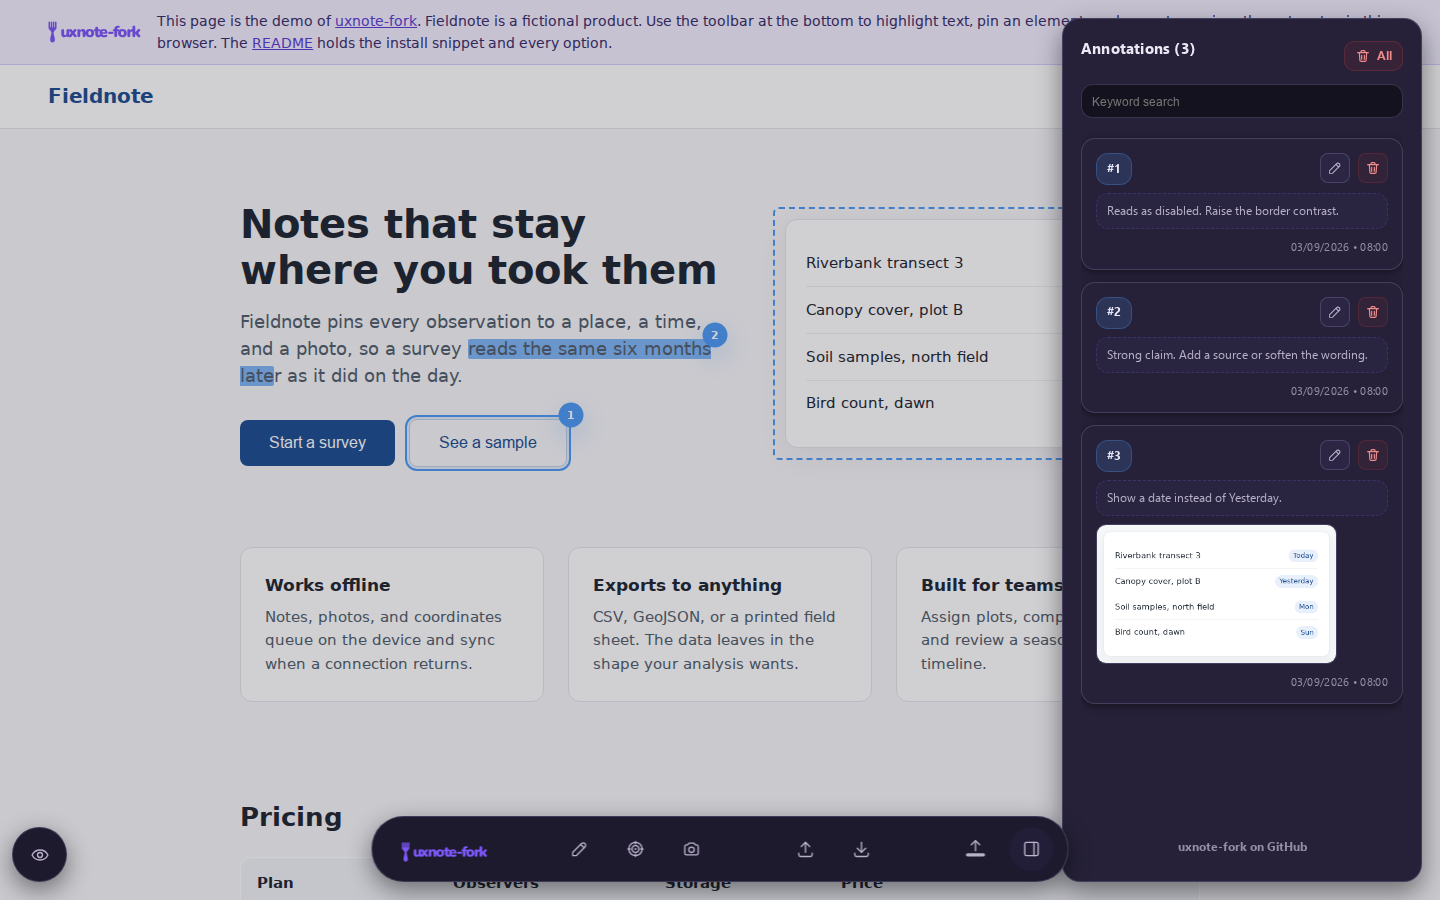
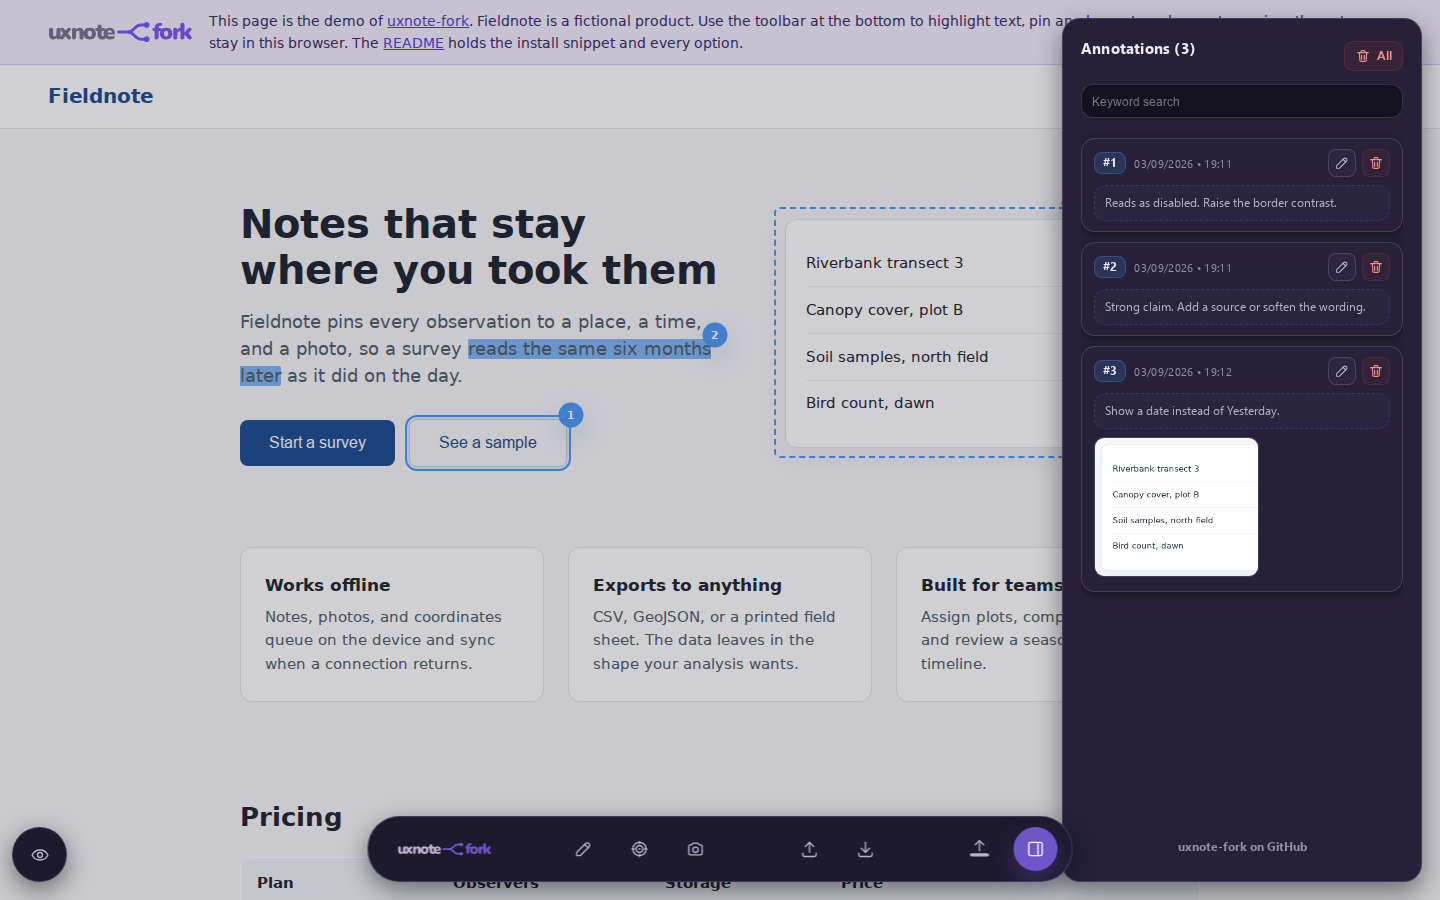
Adopt the Branchpoint mark and cut 2.1.0 (#10)
* feat(brand): draw the hyphen of the wordmark as a branch
* chore(release): cut 2.1.0

diff --git a/uxnote-tool/uxnote.js b/uxnote-tool/uxnote.js
@@ -3,7 +3,7 @@
  * Author: ninefortyonestudio (https://github.com/ninefortyonestudio)
  * Fork: https://github.com/Qu4tro/uxnote-fork
  * Upstream: https://github.com/ninefortyonestudio/uxnote
- * Version: v2.0.0
+ * Version: v2.1.0
  * License: MIT (see LICENSE)
  *
  * This fork stores the annotations on the server named by data-server-url,
@@ -378,8 +378,8 @@
         padding-right: 0px;
       }
       .wn-annot-logo svg {
-        width: 86px;
-        height: 24px;
+        width: 94px;
+        height: auto;
         fill: currentColor;
       }
       @media (max-width: 640px) {
@@ -482,7 +482,7 @@
         display: block;
       }
       .wn-annot-logo-img {
-        width: 86px;
+        width: 94px;
         height: auto;
         object-fit: contain;
         display: block;
@@ -3931,11 +3931,15 @@
   `;
   function iconWordmark() {
     return `
-      <svg class="wn-annot-logo-img" viewBox="0 0 1512 357" role="img" aria-label="uxnote-fork logo">
-        <g fill="#7d58fa">
-          <path d="M8.5 20.125A12.125 12.125 0 0 1 32.75 20.125V96A5.5 5.5 0 0 0 43.75 96V20.125A12.125 12.125 0 0 1 68 20.125V96A5.5 5.5 0 0 0 79 96V20.125A12.125 12.125 0 0 1 103.25 20.125V96A5.5 5.5 0 0 0 114.25 96V20.125A12.125 12.125 0 0 1 138.5 20.125V110C138.5 125 133 132 126 138L107 157C98 166 91 178 91 192C91 222 112 262 112 306C112 334 94 349 73.5 349C53 349 35 334 35 306C35 262 56 222 56 192C56 178 49 166 40 157L21 138C14 132 8.5 125 8.5 110Z"/>
-          <path d="M264.64 263.94Q248.05 263.94 237.28 257.82Q226.51 251.7 221.26 239.37Q216 227.05 216 208.4V153.58Q216 142.06 222.01 136.1Q228.02 130.14 239.18 130.14Q250.34 130.14 256.39 136.1Q262.45 142.06 262.45 153.58V209.59Q262.45 218.99 266.35 223.68Q270.24 228.37 278.58 228.37Q287.96 228.37 293.98 221.53Q300 214.7 300 203.66V153.58Q300 142.06 306.01 136.1Q312.02 130.14 323.18 130.14Q334.34 130.14 340.39 136.1Q346.45 142.06 346.45 153.58V239.89Q346.45 263.42 323.87 263.42Q312.97 263.42 307.04 257.37Q301.12 251.31 301.12 239.89V224.72L305.27 237.55Q299.46 250.31 289.2 257.12Q278.94 263.94 264.64 263.94ZM360.11 263.14Q351.53 263.14 346.33 258.38Q341.13 253.61 341 246.31Q340.87 239.01 346.97 231.44L385.58 184.58V205.14L350.08 161.84Q343.89 154.1 344.07 146.88Q344.24 139.66 349.44 134.9Q354.64 130.14 363.22 130.14Q371.72 130.14 377.1 132.89Q382.47 135.65 387.2 141.92L411.52 173.44H395.37L419.78 141.92Q424.6 135.65 430.1 132.89Q435.59 130.14 443.67 130.14Q452.5 130.14 457.57 134.95Q462.64 139.76 462.86 146.97Q463.07 154.19 456.71 161.93L421.13 205.21V184.43L460.08 231.44Q466.44 238.92 466.18 246.22Q465.92 253.52 460.63 258.33Q455.35 263.14 446.52 263.14Q438.44 263.14 433.03 260.38Q427.61 257.63 422.63 251.36L395.37 216.73H411.33L384 251.36Q379.1 257.37 373.86 260.25Q368.61 263.14 360.11 263.14ZM501.18 263.42Q490.02 263.42 484.01 257.37Q478 251.31 478 239.89V153.58Q478 142.15 483.92 136.15Q489.85 130.14 500.75 130.14Q511.65 130.14 517.49 136.15Q523.33 142.15 523.33 153.58V165.66L520.46 154.97Q526.7 142.8 538.34 136.21Q549.97 129.62 564.7 129.62Q580.1 129.62 590.02 135.61Q599.93 141.6 604.89 153.88Q609.85 166.16 609.85 185.07V239.89Q609.85 251.31 603.84 257.37Q597.83 263.42 586.67 263.42Q575.51 263.42 569.45 257.37Q563.4 251.31 563.4 239.89V186.97Q563.4 175.26 559.37 170.22Q555.34 165.19 547.43 165.19Q537.08 165.19 530.77 171.86Q524.45 178.53 524.45 189.74V239.89Q524.45 263.42 501.18 263.42ZM679.9 263.94Q658.57 263.94 642.63 255.85Q626.68 247.76 617.84 232.59Q609 217.42 609 196.73Q609 181.17 613.98 168.78Q618.97 156.4 628.33 147.57Q637.69 138.75 650.78 134.18Q663.86 129.62 679.9 129.62Q701.4 129.62 717.27 137.71Q733.13 145.8 741.97 160.84Q750.81 175.88 750.81 196.73Q750.81 212.3 745.83 224.73Q740.84 237.16 731.48 245.98Q722.12 254.81 709.03 259.38Q695.95 263.94 679.9 263.94ZM679.9 229.65Q687.06 229.65 692.45 226.21Q697.84 222.76 700.97 215.49Q704.1 208.23 704.1 196.73Q704.1 179.36 697.31 171.63Q690.52 163.91 679.9 163.91Q672.92 163.91 667.44 167.31Q661.97 170.71 658.84 177.89Q655.71 185.07 655.71 196.73Q655.71 214.02 662.5 221.83Q669.29 229.65 679.9 229.65ZM825.91 263.94Q806.45 263.94 793.68 257.87Q780.91 251.79 774.68 239.7Q768.45 227.61 768.45 209.34V166.75H759.71Q751.28 166.75 746.64 162.33Q742 157.9 742 149.66Q742 141.32 746.64 136.94Q751.28 132.56 759.71 132.56H768.45V116.31Q768.45 104.89 774.51 98.88Q780.56 92.87 791.72 92.87Q802.88 92.87 808.89 98.88Q814.9 104.89 814.9 116.31V132.56H836.23Q844.83 132.56 849.39 136.94Q853.94 141.32 853.94 149.66Q853.94 157.9 849.39 162.33Q844.83 166.75 836.23 166.75H814.9V207.85Q814.9 217.37 819.46 221.97Q824.03 226.57 833.96 226.57Q837.56 226.57 840.96 225.78Q844.35 225 847.29 224.91Q851.42 224.65 854.09 227.45Q856.76 230.25 856.76 239.87Q856.76 247.58 854.4 252.96Q852.04 258.34 845.94 260.74Q842.21 262.12 835.98 263.03Q829.75 263.94 825.91 263.94ZM912.94 263.94Q889.44 263.94 872.37 255.69Q855.3 247.43 846.15 232.31Q837 217.18 837 196.66Q837 176.83 845.72 161.79Q854.44 146.74 869.76 138.18Q885.07 129.62 904.6 129.62Q919 129.62 930.67 134.3Q942.33 138.99 950.69 147.67Q959.06 156.36 963.44 168.65Q967.81 180.94 967.81 196.14Q967.81 201.34 964.89 203.82Q961.96 206.3 955.79 206.3H875.85V184.34H933.69L929.68 187.59Q929.68 178.09 926.99 172Q924.3 165.91 919.23 162.85Q914.16 159.8 906.74 159.8Q898.61 159.8 892.66 163.55Q886.71 167.31 883.59 174.65Q880.46 182 880.46 192.96V195.12Q880.46 213.68 888.67 221.67Q896.88 229.65 914.12 229.65Q919.91 229.65 927.39 228.29Q934.87 226.93 941.61 224.25Q948.42 221.62 953.43 223.26Q958.44 224.9 961.17 228.93Q963.89 232.95 964.17 238.16Q964.44 243.36 961.73 248.1Q959.02 252.85 952.99 255.55Q944.03 259.8 933.74 261.87Q923.45 263.94 912.94 263.94ZM996.31 208.94Q988.57 208.94 983.28 203.74Q978 198.54 978 190.9Q978 182.99 983.28 177.92Q988.57 172.85 996.31 172.85H1048.06Q1055.87 172.85 1061.07 177.92Q1066.27 182.99 1066.27 190.9Q1066.27 198.54 1061.07 203.74Q1055.87 208.94 1048.06 208.94ZM1101.49 263.42Q1090.33 263.42 1084.27 257.37Q1078.22 251.31 1078.22 239.89V166.75H1071.55Q1063.12 166.75 1058.56 162.33Q1054 157.9 1054 149.66Q1054 141.32 1058.56 136.94Q1063.12 132.56 1071.55 132.56H1091.78L1078.22 144.84V137.46Q1078.22 108.59 1092.7 94.15Q1107.19 79.71 1135.93 76.69L1143.64 75.91Q1151.86 75.05 1156.82 78.02Q1161.78 80.99 1163.58 85.85Q1165.37 90.7 1164.51 95.86Q1163.64 101.01 1160.49 104.66Q1157.35 108.32 1152.27 108.75L1148.61 109.01Q1135.24 110.05 1129.95 114.74Q1124.67 119.44 1124.67 128.75V137.23L1119.16 132.56H1139.69Q1148.28 132.56 1152.76 136.94Q1157.23 141.32 1157.23 149.66Q1157.23 157.9 1152.76 162.33Q1148.28 166.75 1139.69 166.75H1124.67V239.89Q1124.67 263.42 1101.49 263.42ZM1209.9 263.94Q1188.57 263.94 1172.63 255.85Q1156.68 247.76 1147.84 232.59Q1139 217.42 1139 196.73Q1139 181.17 1143.98 168.78Q1148.97 156.4 1158.33 147.57Q1167.69 138.75 1180.78 134.18Q1193.86 129.62 1209.9 129.62Q1231.4 129.62 1247.27 137.71Q1263.13 145.8 1271.97 160.84Q1280.81 175.88 1280.81 196.73Q1280.81 212.3 1275.83 224.73Q1270.84 237.16 1261.48 245.98Q1252.12 254.81 1239.03 259.38Q1225.95 263.94 1209.9 263.94ZM1209.9 229.65Q1217.06 229.65 1222.45 226.21Q1227.84 222.76 1230.97 215.49Q1234.1 208.23 1234.1 196.73Q1234.1 179.36 1227.31 171.63Q1220.52 163.91 1209.9 163.91Q1202.92 163.91 1197.44 167.31Q1191.97 170.71 1188.84 177.89Q1185.71 185.07 1185.71 196.73Q1185.71 214.02 1192.5 221.83Q1199.29 229.65 1209.9 229.65ZM1313.87 263.42Q1302.28 263.42 1296.14 257.37Q1290 251.31 1290 239.89V153.58Q1290 142.15 1295.92 136.15Q1301.85 130.14 1312.75 130.14Q1323.65 130.14 1329.49 136.15Q1335.33 142.15 1335.33 153.58V164.18H1332.72Q1335.21 148.53 1346.08 139.35Q1356.94 130.18 1373.19 129.62Q1380.67 129.43 1384.43 133.52Q1388.19 137.62 1388.38 148.4Q1388.57 157.93 1384.63 163.39Q1380.69 168.85 1369.81 169.96L1363.74 170.49Q1349.99 171.72 1343.65 178.11Q1337.31 184.49 1337.31 197.03V239.89Q1337.31 251.31 1331.3 257.37Q1325.29 263.42 1313.87 263.42ZM1396.18 263.42Q1385.02 263.42 1379.01 257.37Q1373 251.31 1373 239.89V98.04Q1373 86.62 1379.01 80.61Q1385.02 74.6 1396.18 74.6Q1407.34 74.6 1413.39 80.61Q1419.45 86.62 1419.45 98.04V184.17H1419.97L1452.03 145.6Q1458.42 137.71 1464.08 133.92Q1469.75 130.14 1479.36 130.14Q1488.98 130.14 1494.17 134.91Q1499.36 139.68 1499.61 146.72Q1499.86 153.77 1494 160.89L1459.59 201.57V185.34L1498.1 233.93Q1503.8 241.22 1502.82 248.06Q1501.85 254.9 1496.18 259.16Q1490.52 263.42 1481.85 263.42Q1471.38 263.42 1465.16 259.63Q1458.93 255.85 1452.71 247.61L1419.97 207.44H1419.45V239.89Q1419.45 263.42 1396.18 263.42Z"/>
+      <svg class="wn-annot-logo-img" viewBox="204 54 1652 250" role="img" aria-label="uxnote-fork logo">
+        <path fill="currentColor" d="M264.64 263.94Q248.05 263.94 237.28 257.82Q226.51 251.7 221.26 239.37Q216 227.05 216 208.4V153.58Q216 142.06 222.01 136.1Q228.02 130.14 239.18 130.14Q250.34 130.14 256.39 136.1Q262.45 142.06 262.45 153.58V209.59Q262.45 218.99 266.35 223.68Q270.24 228.37 278.58 228.37Q287.96 228.37 293.98 221.53Q300 214.7 300 203.66V153.58Q300 142.06 306.01 136.1Q312.02 130.14 323.18 130.14Q334.34 130.14 340.39 136.1Q346.45 142.06 346.45 153.58V239.89Q346.45 263.42 323.87 263.42Q312.97 263.42 307.04 257.37Q301.12 251.31 301.12 239.89V224.72L305.27 237.55Q299.46 250.31 289.2 257.12Q278.94 263.94 264.64 263.94ZM360.11 263.14Q351.53 263.14 346.33 258.38Q341.13 253.61 341 246.31Q340.87 239.01 346.97 231.44L385.58 184.58V205.14L350.08 161.84Q343.89 154.1 344.07 146.88Q344.24 139.66 349.44 134.9Q354.64 130.14 363.22 130.14Q371.72 130.14 377.1 132.89Q382.47 135.65 387.2 141.92L411.52 173.44H395.37L419.78 141.92Q424.6 135.65 430.1 132.89Q435.59 130.14 443.67 130.14Q452.5 130.14 457.57 134.95Q462.64 139.76 462.86 146.97Q463.07 154.19 456.71 161.93L421.13 205.21V184.43L460.08 231.44Q466.44 238.92 466.18 246.22Q465.92 253.52 460.63 258.33Q455.35 263.14 446.52 263.14Q438.44 263.14 433.03 260.38Q427.61 257.63 422.63 251.36L395.37 216.73H411.33L384 251.36Q379.1 257.37 373.86 260.25Q368.61 263.14 360.11 263.14ZM501.18 263.42Q490.02 263.42 484.01 257.37Q478 251.31 478 239.89V153.58Q478 142.15 483.92 136.15Q489.85 130.14 500.75 130.14Q511.65 130.14 517.49 136.15Q523.33 142.15 523.33 153.58V165.66L520.46 154.97Q526.7 142.8 538.34 136.21Q549.97 129.62 564.7 129.62Q580.1 129.62 590.02 135.61Q599.93 141.6 604.89 153.88Q609.85 166.16 609.85 185.07V239.89Q609.85 251.31 603.84 257.37Q597.83 263.42 586.67 263.42Q575.51 263.42 569.45 257.37Q563.4 251.31 563.4 239.89V186.97Q563.4 175.26 559.37 170.22Q555.34 165.19 547.43 165.19Q537.08 165.19 530.77 171.86Q524.45 178.53 524.45 189.74V239.89Q524.45 263.42 501.18 263.42ZM679.9 263.94Q658.57 263.94 642.63 255.85Q626.68 247.76 617.84 232.59Q609 217.42 609 196.73Q609 181.17 613.98 168.78Q618.97 156.4 628.33 147.57Q637.69 138.75 650.78 134.18Q663.86 129.62 679.9 129.62Q701.4 129.62 717.27 137.71Q733.13 145.8 741.97 160.84Q750.81 175.88 750.81 196.73Q750.81 212.3 745.83 224.73Q740.84 237.16 731.48 245.98Q722.12 254.81 709.03 259.38Q695.95 263.94 679.9 263.94ZM679.9 229.65Q687.06 229.65 692.45 226.21Q697.84 222.76 700.97 215.49Q704.1 208.23 704.1 196.73Q704.1 179.36 697.31 171.63Q690.52 163.91 679.9 163.91Q672.92 163.91 667.44 167.31Q661.97 170.71 658.84 177.89Q655.71 185.07 655.71 196.73Q655.71 214.02 662.5 221.83Q669.29 229.65 679.9 229.65ZM825.91 263.94Q806.45 263.94 793.68 257.87Q780.91 251.79 774.68 239.7Q768.45 227.61 768.45 209.34V166.75H759.71Q751.28 166.75 746.64 162.33Q742 157.9 742 149.66Q742 141.32 746.64 136.94Q751.28 132.56 759.71 132.56H768.45V116.31Q768.45 104.89 774.51 98.88Q780.56 92.87 791.72 92.87Q802.88 92.87 808.89 98.88Q814.9 104.89 814.9 116.31V132.56H836.23Q844.83 132.56 849.39 136.94Q853.94 141.32 853.94 149.66Q853.94 157.9 849.39 162.33Q844.83 166.75 836.23 166.75H814.9V207.85Q814.9 217.37 819.46 221.97Q824.03 226.57 833.96 226.57Q837.56 226.57 840.96 225.78Q844.35 225 847.29 224.91Q851.42 224.65 854.09 227.45Q856.76 230.25 856.76 239.87Q856.76 247.58 854.4 252.96Q852.04 258.34 845.94 260.74Q842.21 262.12 835.98 263.03Q829.75 263.94 825.91 263.94ZM912.94 263.94Q889.44 263.94 872.37 255.69Q855.3 247.43 846.15 232.31Q837 217.18 837 196.66Q837 176.83 845.72 161.79Q854.44 146.74 869.76 138.18Q885.07 129.62 904.6 129.62Q919 129.62 930.67 134.3Q942.33 138.99 950.69 147.67Q959.06 156.36 963.44 168.65Q967.81 180.94 967.81 196.14Q967.81 201.34 964.89 203.82Q961.96 206.3 955.79 206.3H875.85V184.34H933.69L929.68 187.59Q929.68 178.09 926.99 172Q924.3 165.91 919.23 162.85Q914.16 159.8 906.74 159.8Q898.61 159.8 892.66 163.55Q886.71 167.31 883.59 174.65Q880.46 182 880.46 192.96V195.12Q880.46 213.68 888.67 221.67Q896.88 229.65 914.12 229.65Q919.91 229.65 927.39 228.29Q934.87 226.93 941.61 224.25Q948.42 221.62 953.43 223.26Q958.44 224.9 961.17 228.93Q963.89 232.95 964.17 238.16Q964.44 243.36 961.73 248.1Q959.02 252.85 952.99 255.55Q944.03 259.8 933.74 261.87Q923.45 263.94 912.94 263.94Z"/>
+        <g fill="none" stroke="var(--wn-accent)" stroke-width="34" stroke-linecap="round" stroke-linejoin="round">
+          <path d="M1008 179.34H1116C1188 179.34 1188 98.34 1260 98.34H1296"/>
+          <path d="M1116 179.34C1188 179.34 1188 260.34 1260 260.34H1296"/>
         </g>
+        <circle fill="var(--wn-accent)" cx="1328" cy="98.34" r="32"/>
+        <circle fill="var(--wn-accent)" cx="1328" cy="260.34" r="32"/>
+        <path fill="var(--wn-accent)" transform="translate(340 0)" d="M1101.49 263.42Q1090.33 263.42 1084.27 257.37Q1078.22 251.31 1078.22 239.89V166.75H1071.55Q1063.12 166.75 1058.56 162.33Q1054 157.9 1054 149.66Q1054 141.32 1058.56 136.94Q1063.12 132.56 1071.55 132.56H1091.78L1078.22 144.84V137.46Q1078.22 108.59 1092.7 94.15Q1107.19 79.71 1135.93 76.69L1143.64 75.91Q1151.86 75.05 1156.82 78.02Q1161.78 80.99 1163.58 85.85Q1165.37 90.7 1164.51 95.86Q1163.64 101.01 1160.49 104.66Q1157.35 108.32 1152.27 108.75L1148.61 109.01Q1135.24 110.05 1129.95 114.74Q1124.67 119.44 1124.67 128.75V137.23L1119.16 132.56H1139.69Q1148.28 132.56 1152.76 136.94Q1157.23 141.32 1157.23 149.66Q1157.23 157.9 1152.76 162.33Q1148.28 166.75 1139.69 166.75H1124.67V239.89Q1124.67 263.42 1101.49 263.42ZM1209.9 263.94Q1188.57 263.94 1172.63 255.85Q1156.68 247.76 1147.84 232.59Q1139 217.42 1139 196.73Q1139 181.17 1143.98 168.78Q1148.97 156.4 1158.33 147.57Q1167.69 138.75 1180.78 134.18Q1193.86 129.62 1209.9 129.62Q1231.4 129.62 1247.27 137.71Q1263.13 145.8 1271.97 160.84Q1280.81 175.88 1280.81 196.73Q1280.81 212.3 1275.83 224.73Q1270.84 237.16 1261.48 245.98Q1252.12 254.81 1239.03 259.38Q1225.95 263.94 1209.9 263.94ZM1209.9 229.65Q1217.06 229.65 1222.45 226.21Q1227.84 222.76 1230.97 215.49Q1234.1 208.23 1234.1 196.73Q1234.1 179.36 1227.31 171.63Q1220.52 163.91 1209.9 163.91Q1202.92 163.91 1197.44 167.31Q1191.97 170.71 1188.84 177.89Q1185.71 185.07 1185.71 196.73Q1185.71 214.02 1192.5 221.83Q1199.29 229.65 1209.9 229.65ZM1313.87 263.42Q1302.28 263.42 1296.14 257.37Q1290 251.31 1290 239.89V153.58Q1290 142.15 1295.92 136.15Q1301.85 130.14 1312.75 130.14Q1323.65 130.14 1329.49 136.15Q1335.33 142.15 1335.33 153.58V164.18H1332.72Q1335.21 148.53 1346.08 139.35Q1356.94 130.18 1373.19 129.62Q1380.67 129.43 1384.43 133.52Q1388.19 137.62 1388.38 148.4Q1388.57 157.93 1384.63 163.39Q1380.69 168.85 1369.81 169.96L1363.74 170.49Q1349.99 171.72 1343.65 178.11Q1337.31 184.49 1337.31 197.03V239.89Q1337.31 251.31 1331.3 257.37Q1325.29 263.42 1313.87 263.42ZM1396.18 263.42Q1385.02 263.42 1379.01 257.37Q1373 251.31 1373 239.89V98.04Q1373 86.62 1379.01 80.61Q1385.02 74.6 1396.18 74.6Q1407.34 74.6 1413.39 80.61Q1419.45 86.62 1419.45 98.04V184.17H1419.97L1452.03 145.6Q1458.42 137.71 1464.08 133.92Q1469.75 130.14 1479.36 130.14Q1488.98 130.14 1494.17 134.91Q1499.36 139.68 1499.61 146.72Q1499.86 153.77 1494 160.89L1459.59 201.57V185.34L1498.1 233.93Q1503.8 241.22 1502.82 248.06Q1501.85 254.9 1496.18 259.16Q1490.52 263.42 1481.85 263.42Q1471.38 263.42 1465.16 259.63Q1458.93 255.85 1452.71 247.61L1419.97 207.44H1419.45V239.89Q1419.45 263.42 1396.18 263.42Z"/>
       </svg>
     `;
   }

diff --git a/CHANGELOG.md b/CHANGELOG.md
@@ -2,6 +2,12 @@
 
 All notable changes to this project will be documented in this file.
 
+## [2.1.0] - 2026-09-03
+### Added
+- Settings on the demo page. The page reads the widget's options from its query string, and a section below the pricing table writes it, says what each option does, and shows the matching script tag. `data-server-url` is taken only on a loopback address and `data-server-api-key` only beside one, so a link cannot point a visitor's notes at somebody else's server.
+### Changed
+- A new mark. The hyphen of `uxnote-fork` is now a branch: a stem that splits into two curved arms, each ending in a dot. The dining fork icon is gone. The toolbar takes the wordmark ink from the panel text colour and the branch and `fork` from `--wn-accent`, so the mark follows the theme; the standalone asset keeps two fixed inks that read on a light and on a dark page.
+
 ## [2.0.0] - 2026-09-03
 ### Added
 - Server sync. `data-server-url` and `data-server-api-key` name a server that stores the annotations, one set per site, over the protocol of `PROTOCOL.md`. `server/server.py` is a reference server in the Python standard library.
@@ -13,7 +19,6 @@ All notable changes to this project will be documented in this file.
 - An explicit light or dark for the demo page itself, switched in the note at the top of it and held in this browser. The page never follows the system, so the widget's `auto`, `reverse-auto`, `light`, and `dark` each read against a background you chose.
 - Route changes. The widget follows `pushState`, `replaceState`, and `popstate`, so a single-page app keeps its annotations per route.
 - `snapdom.min.js` ships beside the minified widget in every release.
-- Settings on the demo page. The page reads the widget's options from its query string, and a section below the pricing table writes it, says what each option does, and shows the matching script tag. `data-server-url` is taken only on a loopback address and `data-server-api-key` only beside one, so a link cannot point a visitor's notes at somebody else's server.
 ### Changed
 - A note is a comment. The comment card asks for the comment alone, sits beside the toolbar, and saves on Enter.
 - The annotation panel starts closed.

diff --git a/README.md b/README.md
@@ -69,23 +69,23 @@ Then open <http://localhost:4173/>.
 One tag:
 
 ```html
-<script src="https://github.com/Qu4tro/uxnote-fork/releases/download/v2.0.0/uxnote.min-v2.0.0.js"></script>
+<script src="https://github.com/Qu4tro/uxnote-fork/releases/download/v2.1.0/uxnote.min-v2.1.0.js"></script>
 ```
 
 Two tags for the region screenshots, snapdom first:
 
 ```html
-<script src="https://github.com/Qu4tro/uxnote-fork/releases/download/v2.0.0/snapdom.min.js"></script>
-<script src="https://github.com/Qu4tro/uxnote-fork/releases/download/v2.0.0/uxnote.min-v2.0.0.js"></script>
+<script src="https://github.com/Qu4tro/uxnote-fork/releases/download/v2.1.0/snapdom.min.js"></script>
+<script src="https://github.com/Qu4tro/uxnote-fork/releases/download/v2.1.0/uxnote.min-v2.1.0.js"></script>
 ```
 
-Both files are assets of the `v2.0.0` release, and every release carries both.
+Both files are assets of the `v2.1.0` release, and every release carries both.
 
 The three `is*` names and the three `colorFor*` names are plain attributes; the
 rest are `data-` attributes. Every option at once:
 
 ```html
-<script src="https://github.com/Qu4tro/uxnote-fork/releases/download/v2.0.0/uxnote.min-v2.0.0.js"
+<script src="https://github.com/Qu4tro/uxnote-fork/releases/download/v2.1.0/uxnote.min-v2.1.0.js"
   colorForHighlight="#4e9cf6"
   isBackdropVisible="true"
   isToolVisibleAtFirstLaunch="true"
